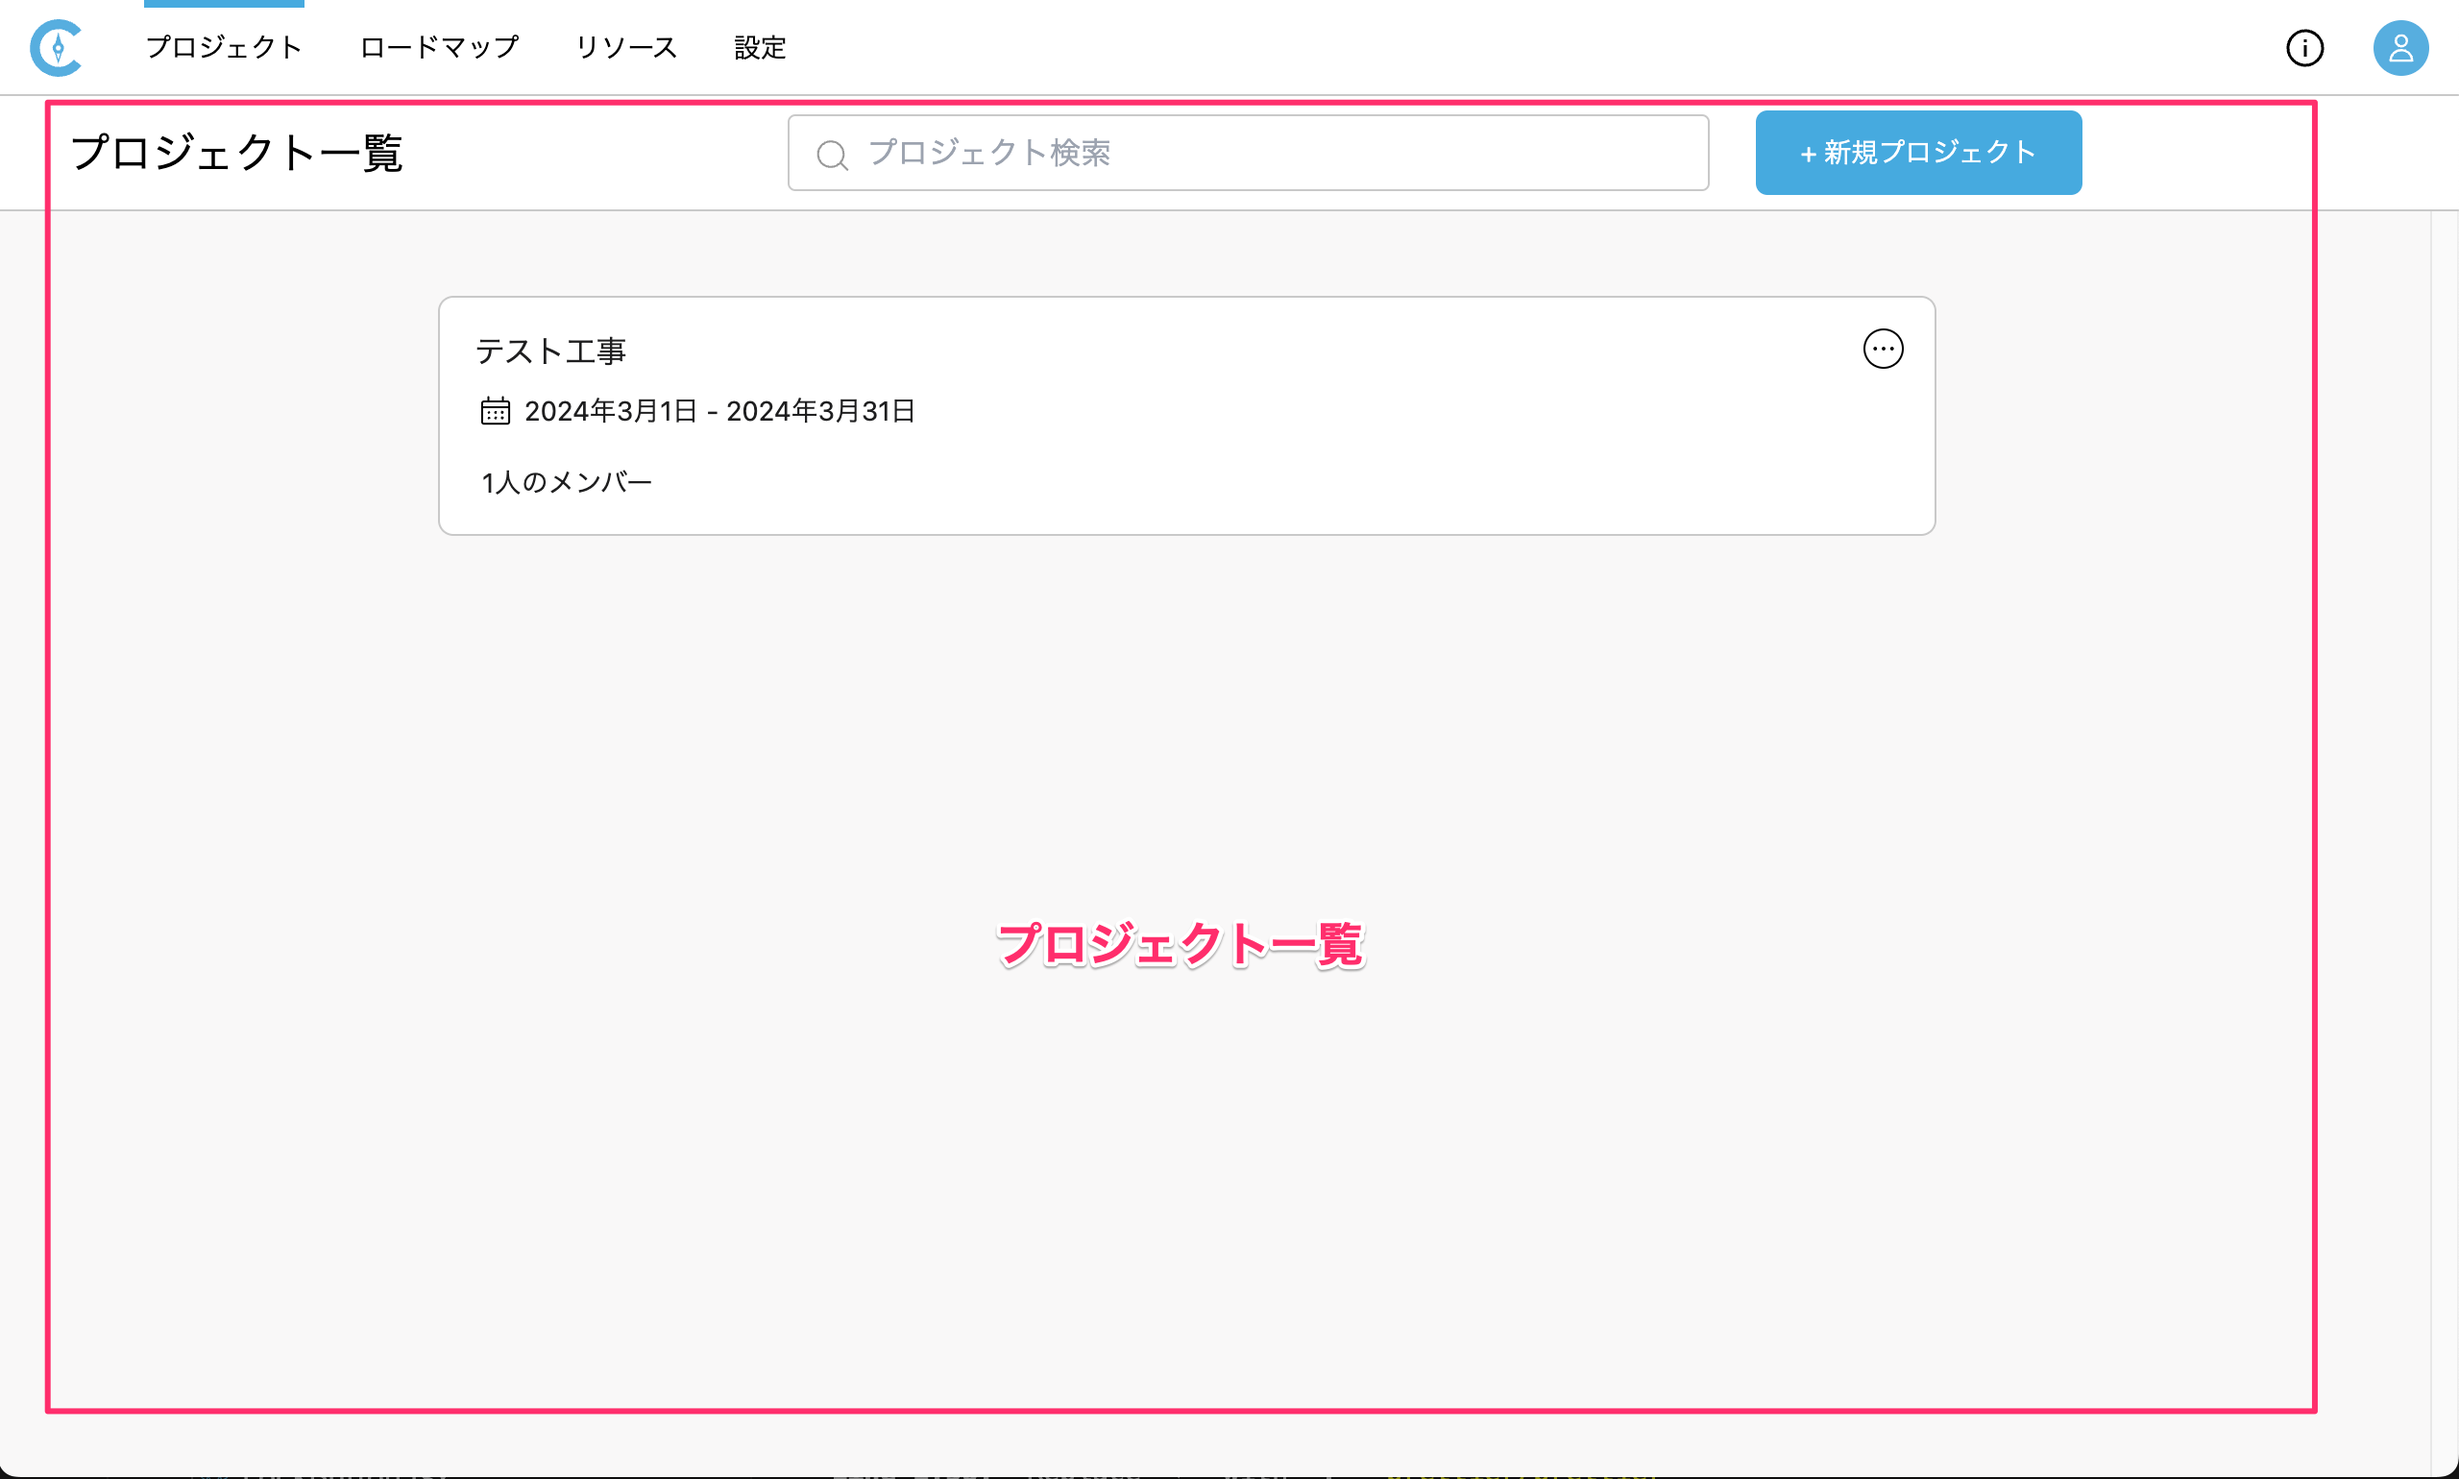
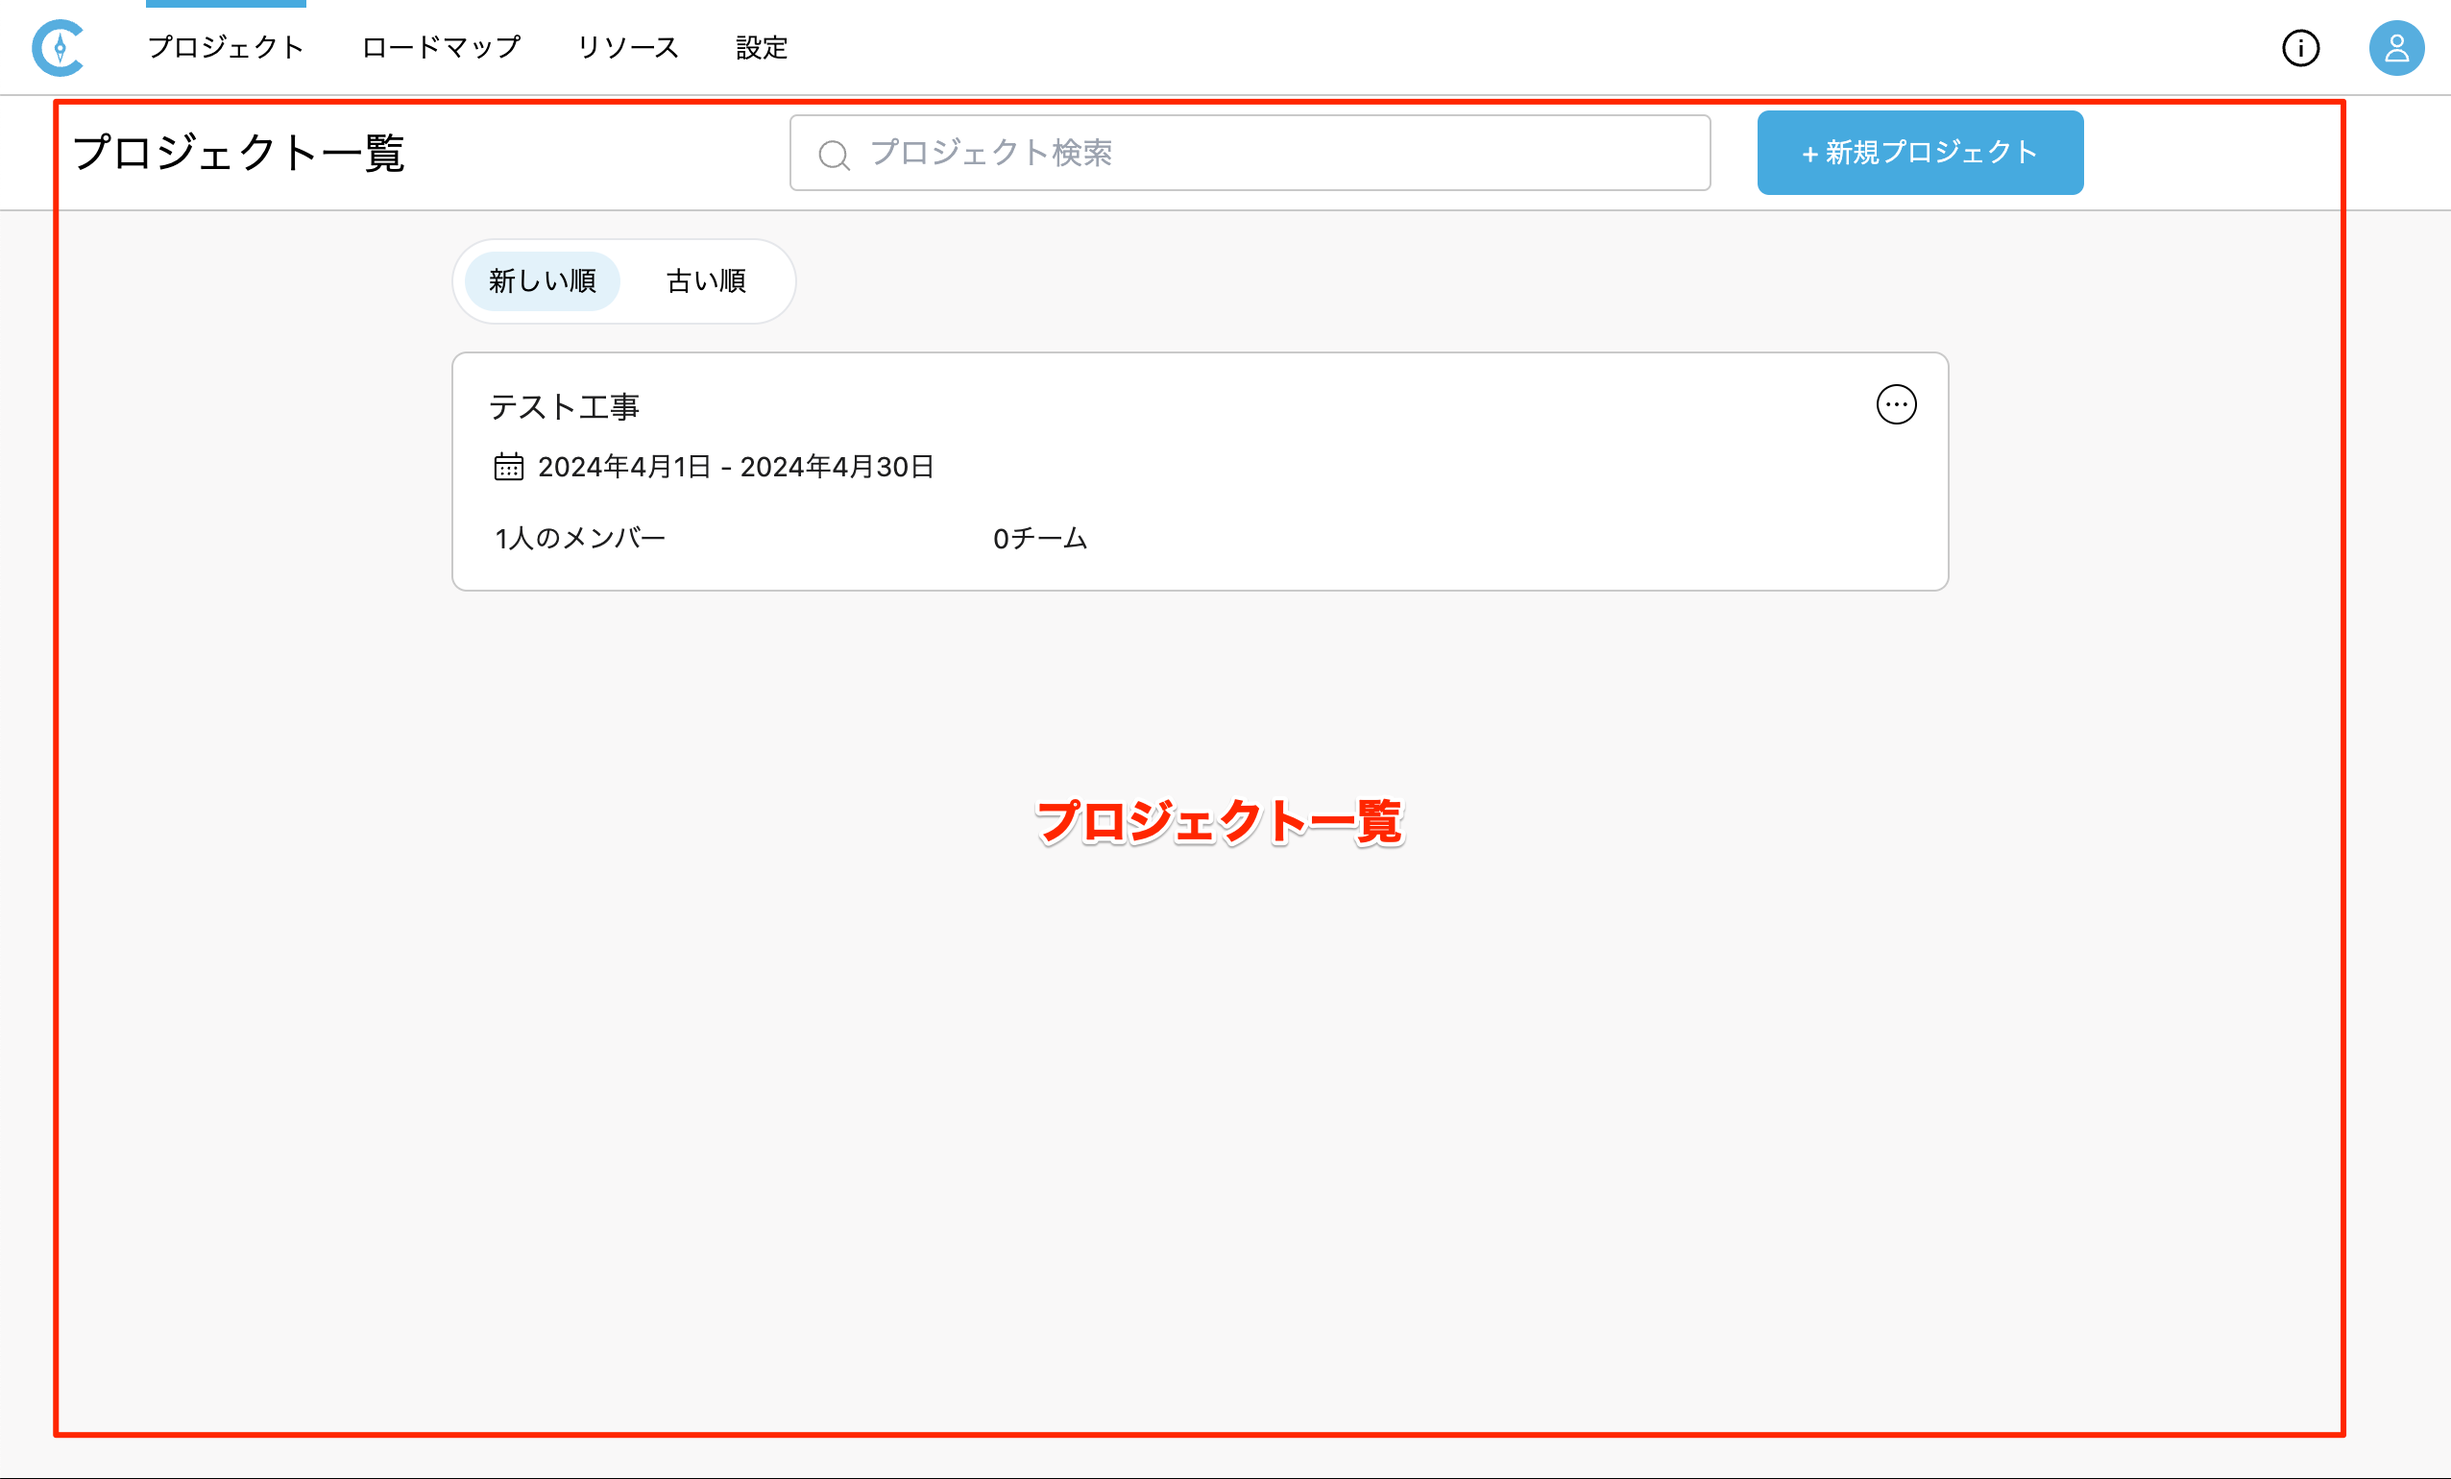
タスクの始点、終点のデザイン変更を追加

diff --git a/projects/task/change-head-design.md b/projects/task/change-head-design.md
@@ -1,0 +1,44 @@
+---
+layout: default
+title: タスクの始点、終点のデザインを変更する
+parent: タスクの作成・編集
+grand_parent: プロジェクト
+nav_order: 15
+has_children: false
+---
+
+# タスクの始点、終点のデザインを変更する
+
+1. ツールバーの[選択]アイコンをクリックしてアクティブにします。
+
+   <table><tr><td>
+   <img src="/assets/images/activetool-selection.png" width="52px">
+   </td></tr></table>
+
+2. タスクをクリックして選択します。
+
+   <table><tr><td>
+   <img src="/assets/images/projects/task/change-head-design/1.png" width="40%">
+   </td></tr></table>
+    
+3. サイドバーの線の先端の[始点]、[終点]のいずれかのアイコンをクリックします。
+
+   <table><tr><td>
+   <img src="/assets/images/projects/task/change-head-design/2.png" width="30%">
+   </td></tr></table>
+    
+4. 変更したいデザインのアイコンをクリックします。 
+
+   <table><tr><td>
+   <img src="/assets/images/projects/task/change-head-design/3.png" width="40%">
+   </td></tr></table>
+    
+   デザインが適用されます。
+
+   <table><tr><td>
+   <img src="/assets/images/projects/task/change-head-design/4.png" width="40%">
+   </td></tr></table>
+
+{: .note }
+デフォルトは始点がなし、終点がドットとなります。  
+終点がドットまたはドット小の場合は点の中に期間が表示され、それ以外の場合はタスクの下側に期間が表示されます。

diff --git a/settings/teams/index.md b/settings/teams/index.md
@@ -9,7 +9,7 @@ has_children: false
 # チーム管理
 {: .no_toc }
 
-チーム管理では、組織のメンバーをグループで登録することができます。登録したチームを[プロジェクトに割り当てる]({% link projects/manage-project/index.md %})ことで、ユーザーの管理が容易になります。
+チーム管理では、組織のメンバーをグループ単位で登録することができます。登録したチームを[プロジェクトに割り当てる]({% link projects/manage-project/index.md %})ことで、ユーザーの管理が容易になります。
 
 ## 目次
 {: .no_toc .text-delta }

diff --git a/CHANGELOG.md b/CHANGELOG.md
@@ -11,6 +11,8 @@ layout: default
 
 ### 新機能
 - [チーム管理](/settings/teams/)で組織内のメンバーをグループ単位で登録できるようになりました
+- [タスクの始点、終点のデザイン](/projects/task/change-head-design/)が変更できるようになりました
+- プロジェクト一覧で並べ替えができるようになりました
 
 ## Release v1.1.0
 
